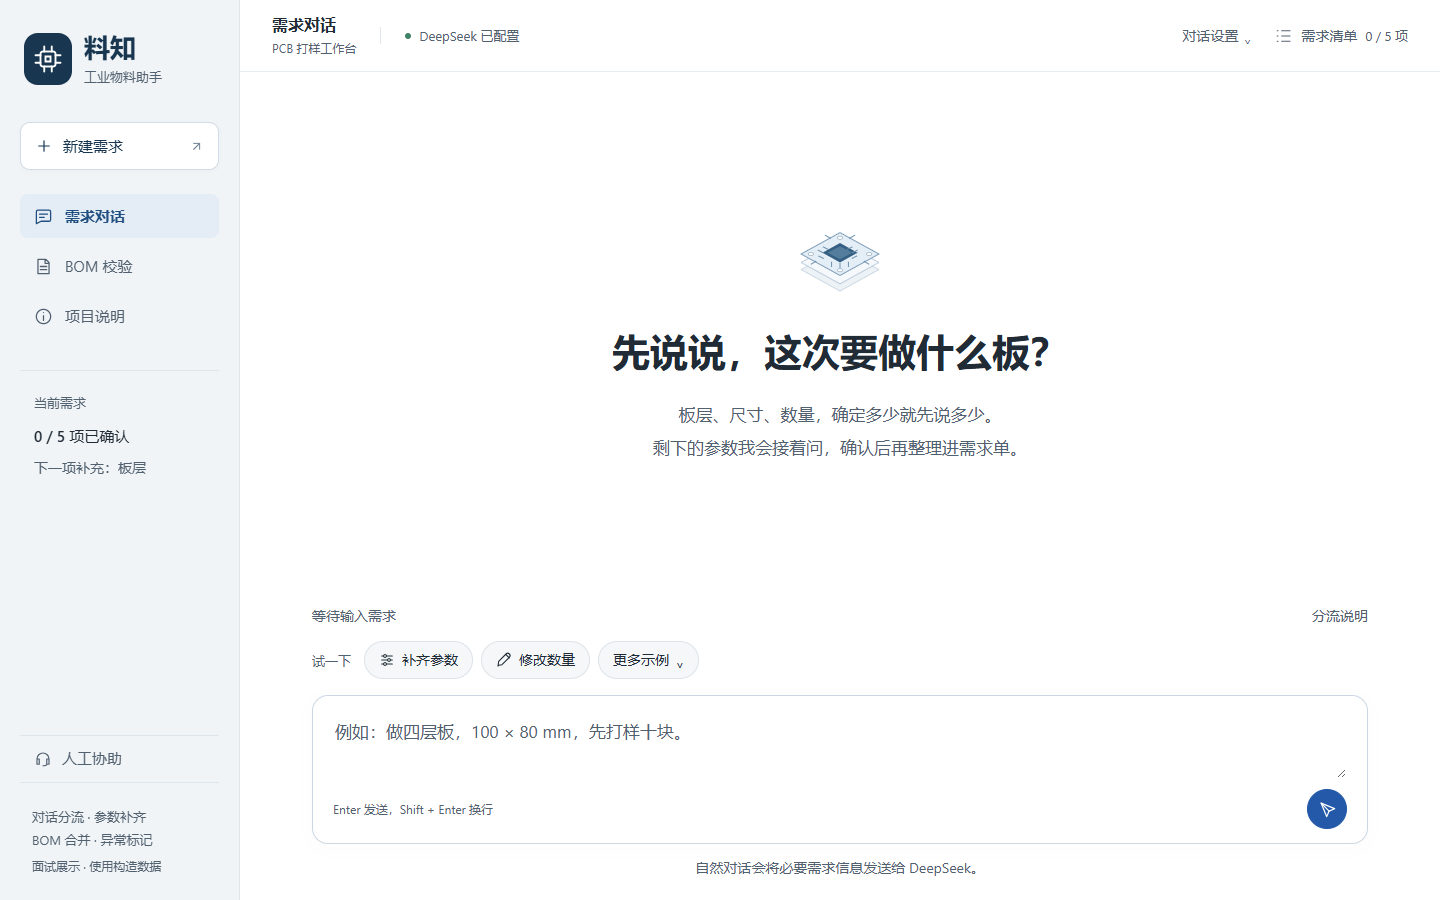
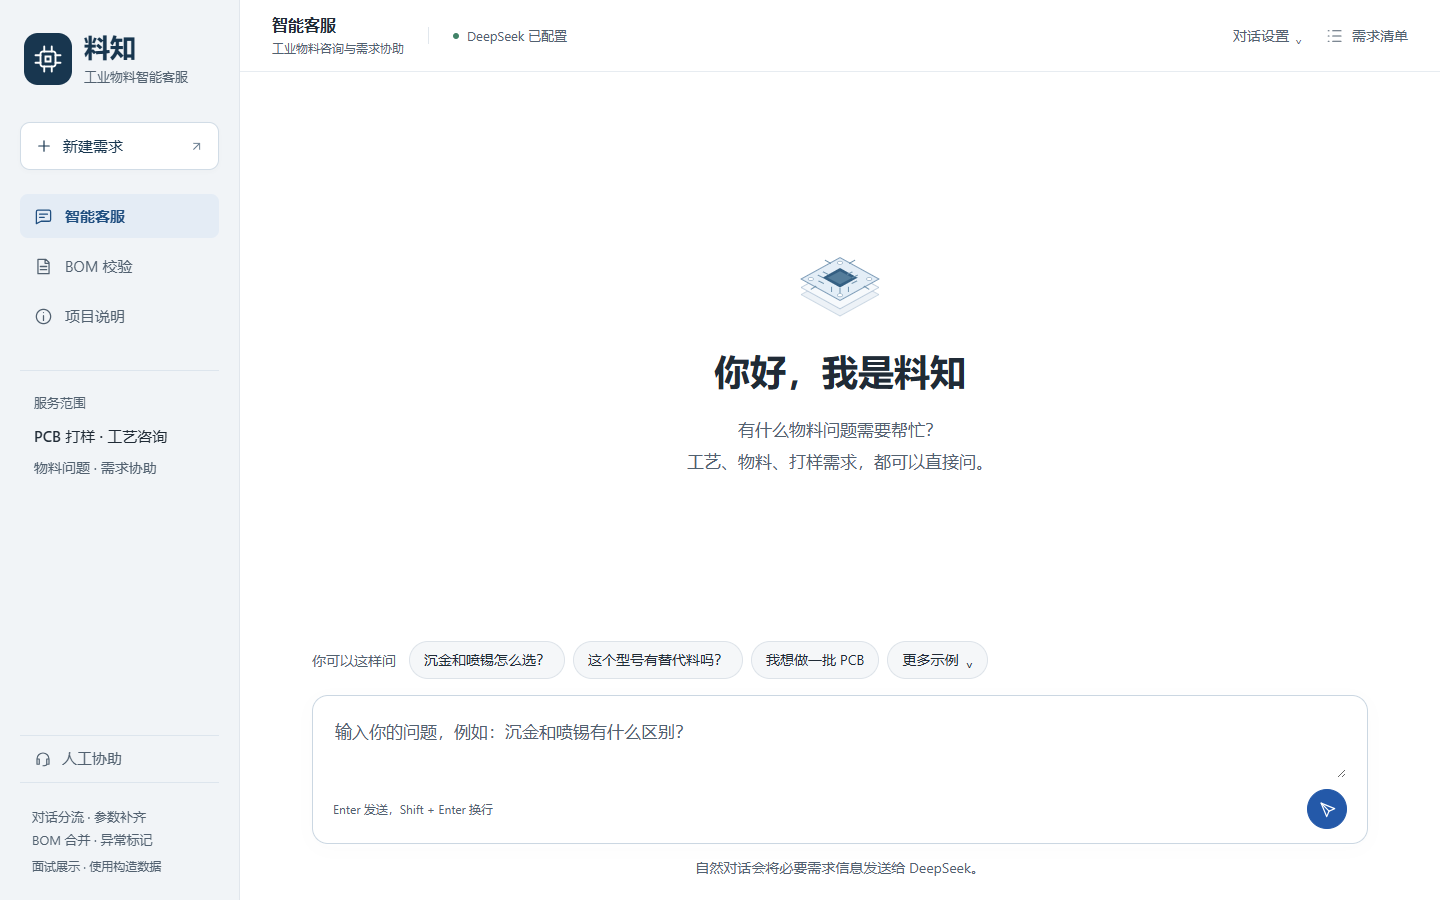
Refresh README and desktop/mobile screenshots from the live assistant

diff --git a/docs/ui-design.md b/docs/ui-design.md
@@ -27,7 +27,7 @@ UI UX Pro Max 的设计系统检索返回了可参考的简洁网格、石墨灰
 
 ## 信息与交互
 
-- 顶部保留需求对话、BOM 校验、项目说明三个入口。
+- 侧栏保留智能客服、BOM 校验、项目说明三个入口；手机从左上角打开导航。
 - 对话旁的需求单保存五项已确认字段；进度仅随用户确认更新，不根据待确认建议提前增长。
 - 设置、分流详情、更多示例与参数变更记录按需展开。对话正文 17px，参数与 BOM 正文 16px，关键提示和表头至少 14px。
 - BOM 使用独立工作区，原始数据和合并预览分区展示。数量右对齐，型号和位号保持可读；小屏仅表格内部横向滚动。
@@ -36,6 +36,10 @@ UI UX Pro Max 的设计系统检索返回了可参考的简洁网格、石墨灰
 - 免费后端唤醒提示继续保留；静态前端和本地 BOM 功能可独立使用。服务端持有 DeepSeek 密钥。
 
 ## 操作层级与对话体验
+
+2026-11-24 客服优先版：首屏改为“你好，我是料知”，以工艺、物料和打样问题建立客服身份，初始不把五项参数进度作为页面主体；开始收集参数后再显示已确认进度。桌面保留全窗口预览，手机在 600 CSS 像素以下采用独立排版：单行客服导航、左对齐欢迎区、自然问题圆角入口和底部紧凑输入栏。设置移入手机导航；人工协助仍可直接打开。
+
+手机需求清单复用同一份已确认状态，通过原生 dialog 从底部展开，支持关闭、背景点击和 Esc，模态状态隔离背景焦点。较短窗口内面板可滚动且关闭入口保持可见；切回桌面时恢复原有侧栏/下方清单。参数确认卡片内可滚动，临时收起次要示例与分流行，为消息和输入保留空间。本文后续精修记录与缩放统计描述历史阶段；本次检查见 README 的当前验证范围。
 
 快捷示例按用户给定参考采用浅灰胶囊入口，带有悬停、焦点与选中状态；点击只填入草稿，编辑或发送后同步取消选择。“先说说，这次要做什么板？”使用加粗标题。发送使用有可访问名称的圆形图标按钮，人工协助、示例加载和来源行追溯采用低干扰入口；参数确认和导出仍保留明确的主操作按钮。普通助手回复不再包裹矩形气泡，用户消息保留轻底色区分说话人。
 

diff --git a/docs/demo-guide.md b/docs/demo-guide.md
@@ -8,10 +8,10 @@
 
 ## 入口：对话分流与参数补齐
 
-1. 展开“对话设置”，选择 DeepSeek 自然对话；没有 API Key 时选择离线规则演示。两种模式都支持下列明确格式。
-2. 点击“补齐参数”填入 `4层，100x80mm，先做10块`，再点击发送。
-3. 指出“报参数”的分流结果。确认卡片前，右侧原值保持不变；点击“确认更新”。
-4. 右侧仅剩工艺和交期缺失，助手先追问工艺。发送 `沉金，7天` 并确认，展示五项齐全。
+1. 展开“对话设置”，选择 DeepSeek 自然对话；手机端先打开左上角导航。没有 API Key 时选择离线规则演示。两种模式都支持下列明确格式。
+2. 直接输入 `4层，100x80mm，先做10块`，再点击发送。首屏也可点击自然问题选框填入草稿。
+3. 指出“报参数”的分流结果。确认卡片出现后，需求清单中的原值保持不变；点击“确认更新”。桌面从顶部打开清单，手机从输入栏上方打开底部面板。
+4. 清单仅剩工艺和交期缺失，助手先追问工艺。关闭清单，发送 `沉金，7天` 并确认，展示五项齐全。
 5. 发送 `改成20块，其他不变`，确认前后对比数量 10 → 20，强调其他字段保持原值。
 6. 发送 `改成30块`，选择“暂不修改”，展示数量仍为 20。
 7. 展开“更多示例”，点击“问参数”“问替代料”“要出单”展示不同去向。点击“不确定意图”展示反问和四类快捷确认入口。
